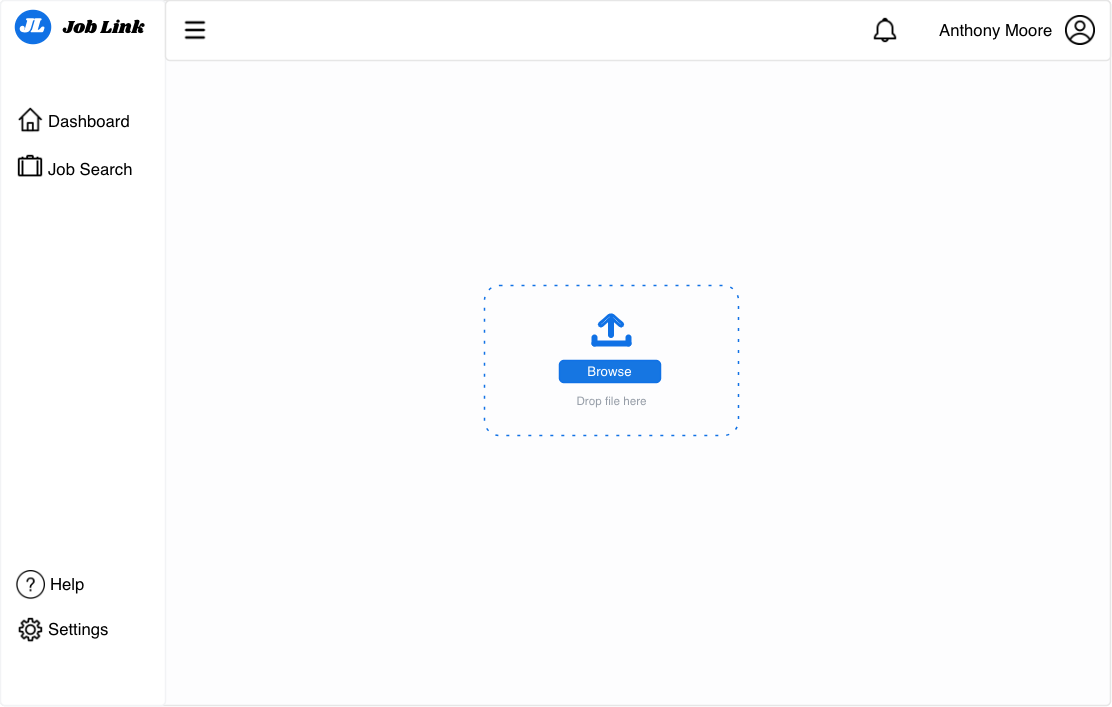
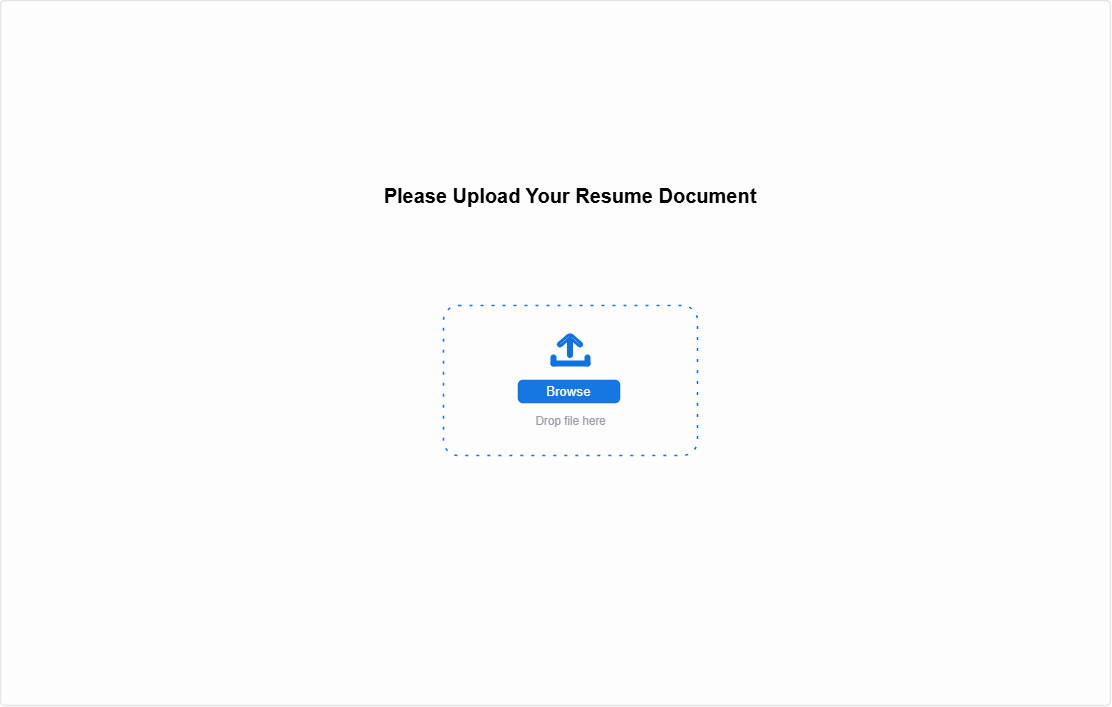
Add landing screen section
- Modified mocks for the file upload and success screens.

diff --git a/Feature/Job-Link.md b/Feature/Job-Link.md
@@ -3,6 +3,7 @@
 - [Terminology](#terminology)
 - [Background](#background)
 - [User Experience](#user-experience)
+  - [Landing Screen](#landing-screen)
   - [Login Screen](#login-screen)
   - [Registration Screen](#registration-screen)
   - [File Upload Screen](#file-upload-screen)
@@ -31,6 +32,11 @@ The Job Portal application (Job Link) is a web interface that allows users to up
  The Job Link application provides user a place to explore open opportunities and to track application submissions. Users can apply to as many applications as they desire while keeping a log of applications sent to open roles. The Job Link web interface allows a centralized platform to help monitor your application status within your profile.
 
 # User Experience
+  ## Landing Screen
+  Users are presented with a landing page when navigated to the job board site. The login and sign up tabs are displayed in the upper right hand corner of the header and the title on the left side. The page also displays a landing title with animation.
+
+  ![job-portal-landing](/attachments/JobPortalLanding.png)
+
   ## Login Screen
   Users are navigated to the login page. They are presented with an email and password field including "Sign In" and "Sign Up" buttons.
 
